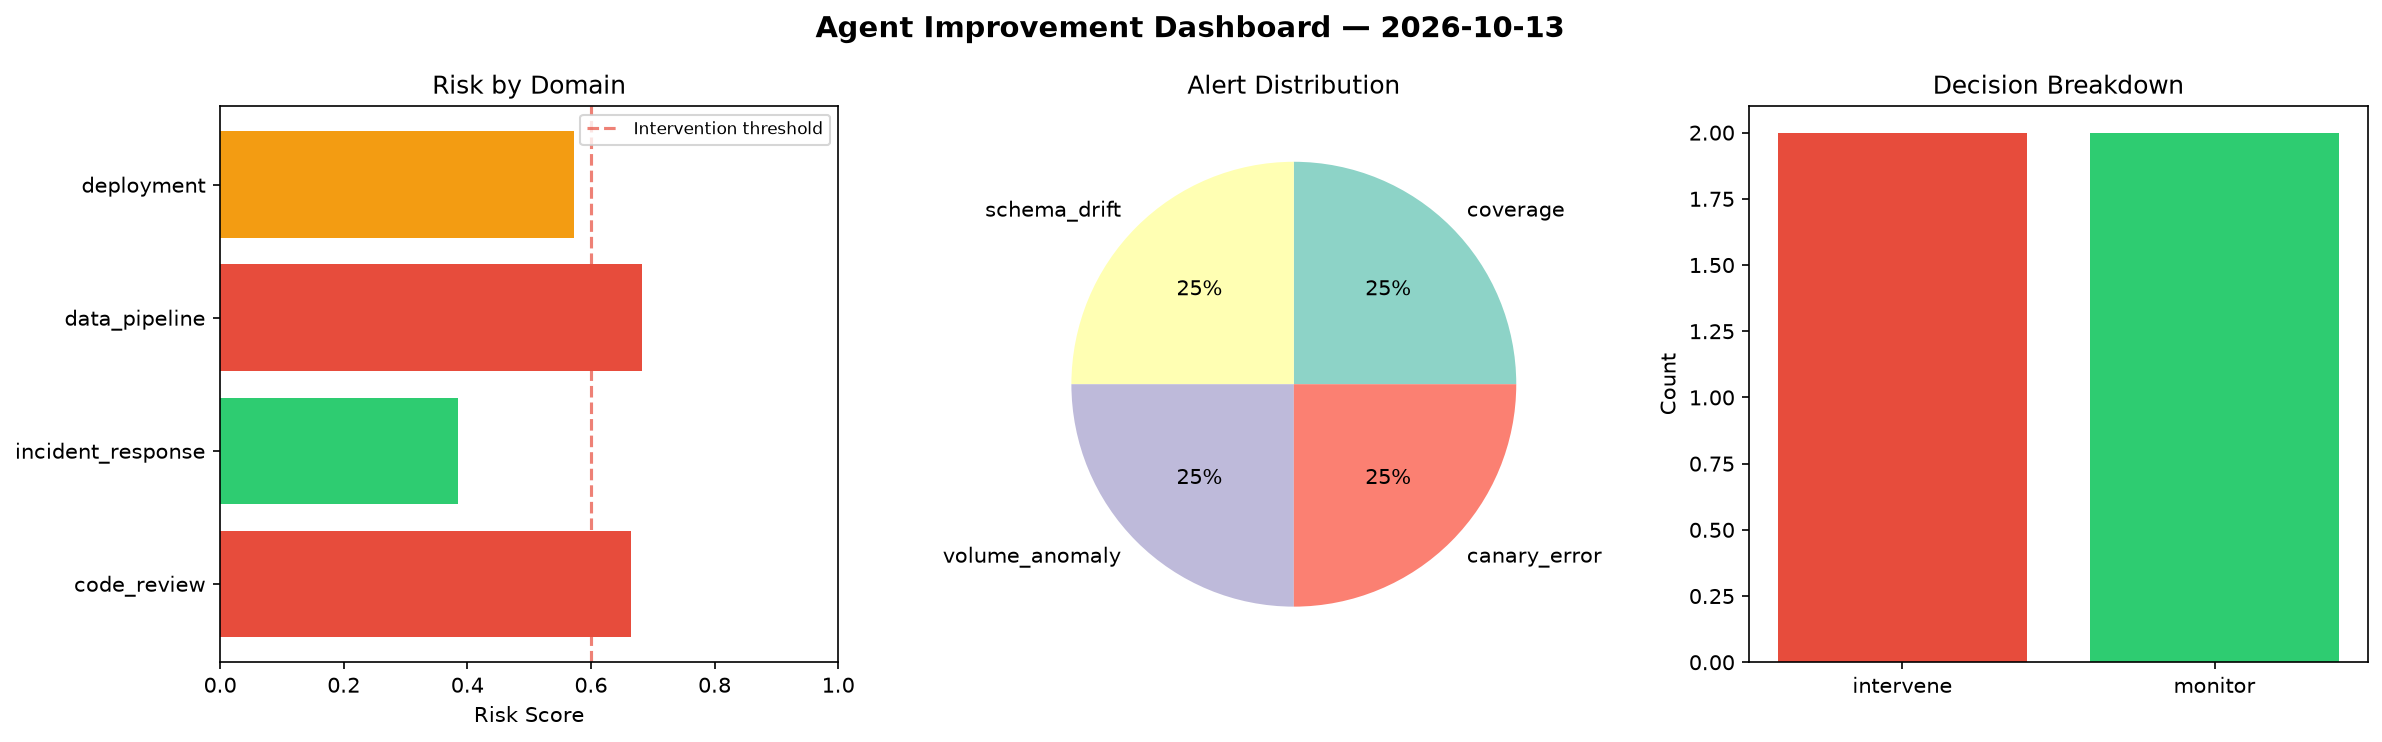
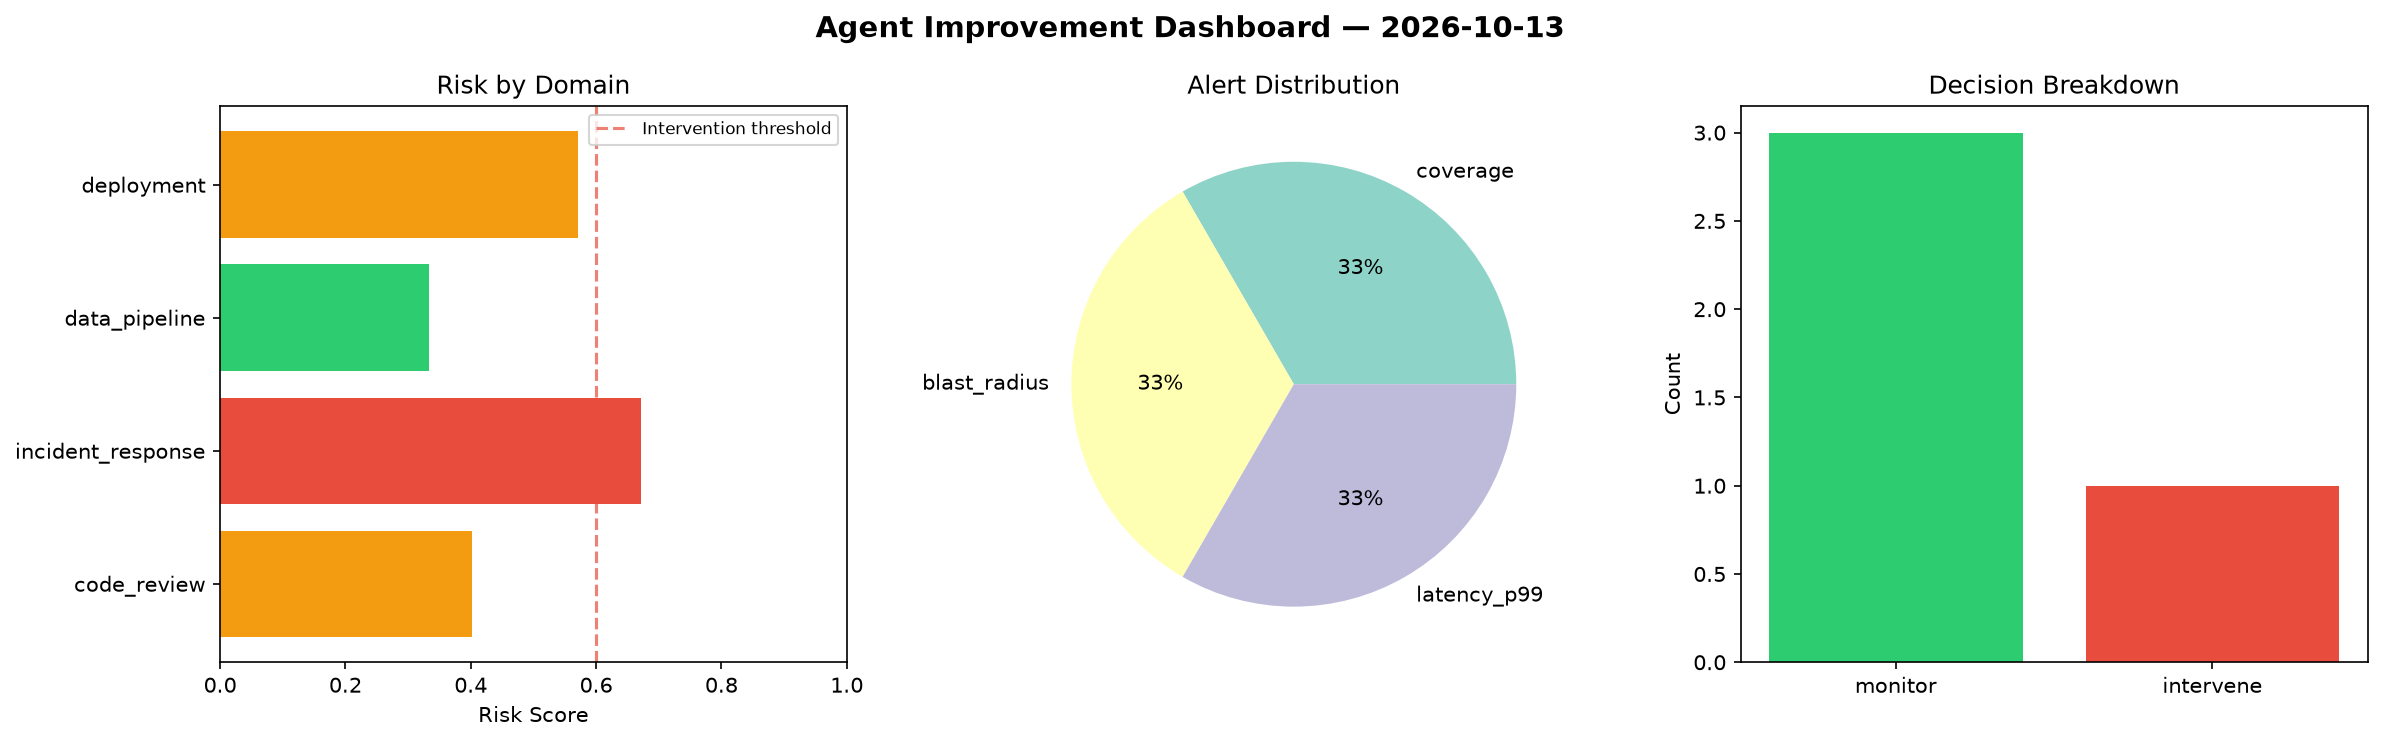
agent-improvement: daily cycle 2026-10-13T09:22

diff --git a/logs/2026-10-13.md b/logs/2026-10-13.md
@@ -1,6 +1,6 @@
 # Agent Improvement Report — 2026-10-13
 
-**Cycle ID:** `b900f2fc` | **Avg Risk:** 0.5764 | **Interventions:** 2/4
+**Cycle ID:** `7f3695db` | **Avg Risk:** 0.4948 | **Interventions:** 1/4
 
 ![Dashboard](2026-10-13_dashboard.png)
 
@@ -10,18 +10,18 @@
 
 | Domain | Risk Score | Decision | Alerts |
 |--------|-----------|----------|--------|
-| code_review | 0.6654 | intervene | coverage |
-| incident_response | 0.3849 | monitor | none |
-| data_pipeline | 0.6828 | intervene | schema_drift, volume_anomaly |
-| deployment | 0.5726 | monitor | canary_error |
+| code_review | 0.4018 | monitor | coverage |
+| incident_response | 0.672 | intervene | blast_radius |
+| data_pipeline | 0.3336 | monitor | none |
+| deployment | 0.5717 | monitor | latency_p99 |
 
 ## Delta vs Yesterday
 
 | Domain | Today | Yesterday | Change |
 |--------|-------|-----------|--------|
-| code_review | 0.6654 | 0.1225 | 📈 443.2% |
-| incident_response | 0.3849 | 0.6903 | 📉 -44.2% |
-| data_pipeline | 0.6828 | 0.2713 | 📈 151.7% |
-| deployment | 0.5726 | 0.5165 | 📈 10.9% |
+| code_review | 0.4018 | 0.1225 | 📈 228.0% |
+| incident_response | 0.672 | 0.6903 | 📉 -2.7% |
+| data_pipeline | 0.3336 | 0.2713 | 📈 23.0% |
+| deployment | 0.5717 | 0.5165 | 📈 10.7% |
 
-**Refinement:** `{'adjustment': 'maintain', 'trend': 'improving', 'window': 4}`
+**Refinement:** `{'adjustment': 'tighten_thresholds', 'trend': 'degrading', 'window': 4}`
